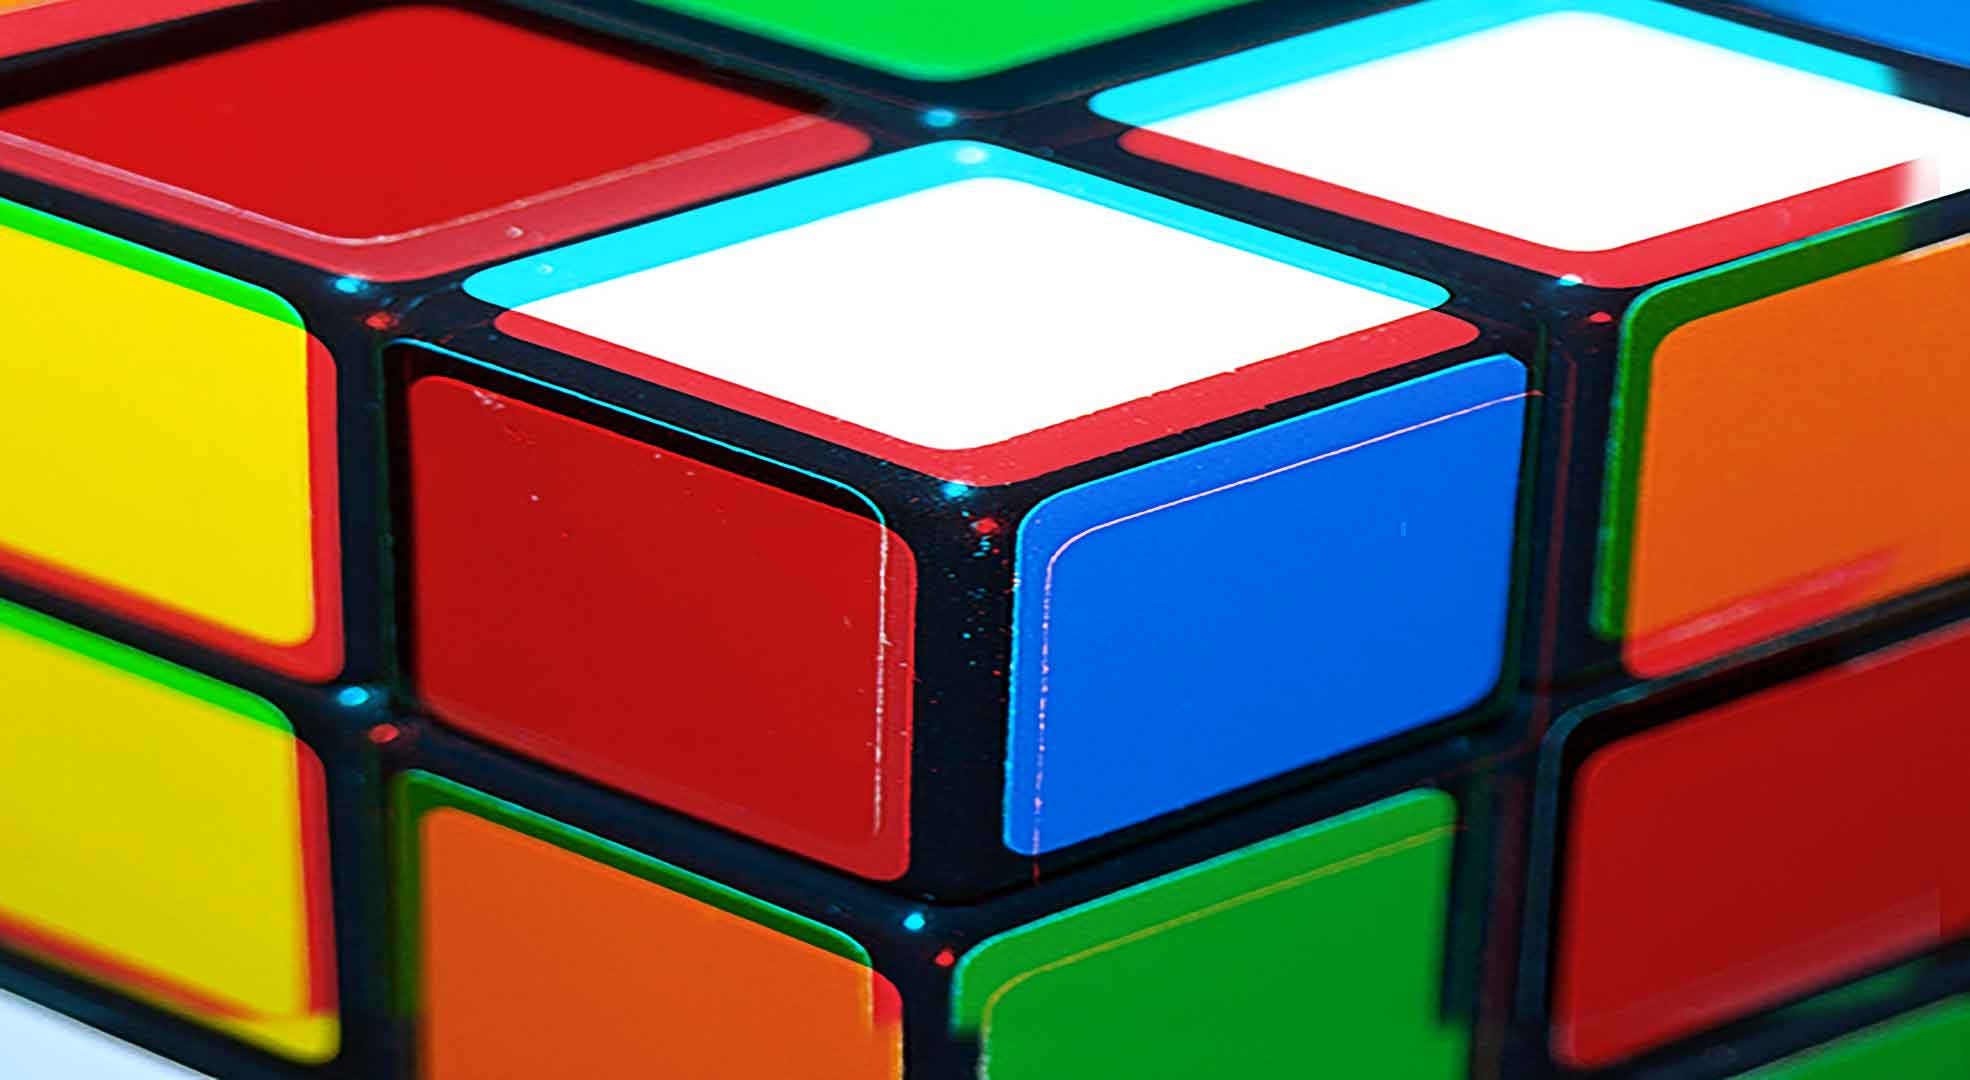
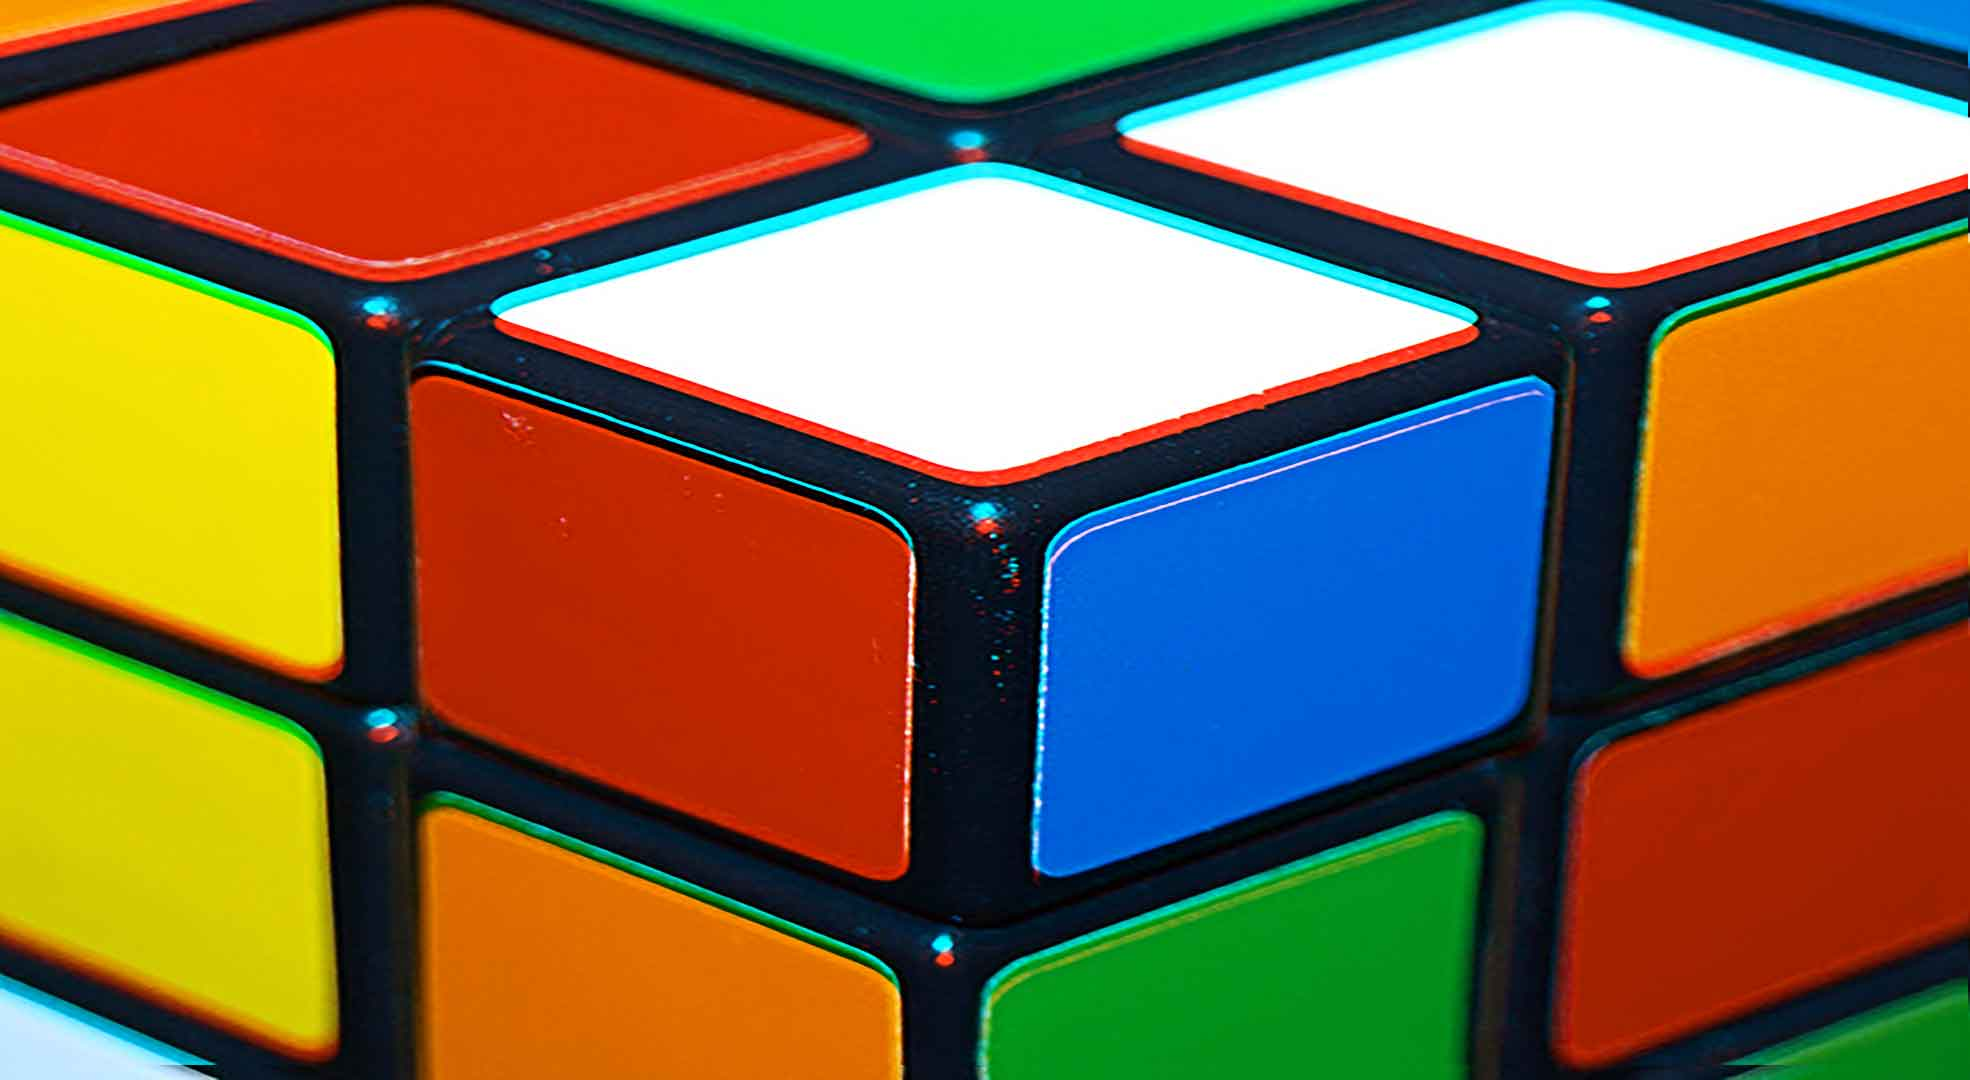
Add new images to file and complete home.html

diff --git a/pages/home.html b/pages/home.html
@@ -12,37 +12,64 @@
 
   <script type="application/json" data-pattern="header/header"></script>
 
-  <script type="application/json" data-pattern="banner/home-banner"></script>
+  <script type="application/json" data-pattern="banner/home-banner">{
+    ".home-text-image-banner[class]": "home-text-image-banner banner-img-3 embed embed-4by3"
+  }</script>
 
   <main>
-    <div class="grid island-2">
-      <div class="unit [ xs-1 l-1-2 xl-1-4 ] pad-t pad-b">
-        <script type="application/json" data-pattern="card/info-card"></script>
+    <div class="grid grid-stretch island-2">
+      <div class="unit [ xs-1 l-1-2 xl-1-4 ] unit-content-distribute pad-t pad-b">
+        <script type="application/json" data-pattern="card/info-card">{
+          "img[src]": "../images/multiple-rubik.jpg",
+          "h3": "New Releases",
+          "p": "A Whole new type of rubik introduced to our collection at Rubikas"
+        }</script>
       </div>
-      <div class="unit [ xs-1 l-1-2 xl-1-4 ] pad-t pad-b">
-        <script type="application/json" data-pattern="card/info-card"></script>
+      <div class="unit [ xs-1 l-1-2 xl-1-4 ] unit-content-distribute pad-t pad-b">
+        <script type="application/json" data-pattern="card/info-card">{
+          "img[src]": "../images/compete.jpg",
+          "h3" : "Get involved!"
+        }</script>
       </div>
-      <div class="unit [ xs-1 l-1-2 xl-1-4 ] pad-t pad-b">
-        <script type="application/json" data-pattern="card/info-card"></script>
+      <div class="unit [ xs-1 l-1-2 xl-1-4 ] unit-content-distribute pad-t pad-b">
+        <script type="application/json" data-pattern="card/info-card">{
+          "img[src]": "../images/wrench.jpg",
+          "h3": "Fixing the Cube",
+          "p": "Check out our list of manual of your rubik and get cracking. From our 2 by 2 to our hexagonal rubiks, we got the guide to help you through the steps necessary to master your cube."
+        }</script>
       </div>
-      <div class="unit [ xs-1 l-1-2 xl-1-4 ] pad-t pad-b">
-        <script type="application/json" data-pattern="card/info-card"></script>
+      <div class="unit [ xs-1 l-1-2 xl-1-4 ] unit-content-distribute pad-t pad-b">
+        <script type="application/json" data-pattern="card/info-card">{
+          "img[src]": "../images/chess.jpg",
+          "H3": "Collector's choice"
+        }</script>
       </div>
     </div>
   </main>
 
-  <script type="application/json" data-pattern="navigation/section"></script>
+  <script type="application/json" data-pattern="navigation/section">{
+    "img[src]" : "../images/rubik-two-by-two.png"
+  }</script>
 
   <section>
-    <div class="grid island-2">
-      <div class="unit [ xs-1 l-1 xl-1-3 ] ">
-        <script type="application/json" data-pattern="card/basic-card"></script>
+    <div class="grid island-2 grid-stretch">
+      <div class="unit [ xs-1 l-1 xl-1-3 ] unit-content-distribute">
+        <script type="application/json" data-pattern="card/basic-card">{
+          "img[src]": "../images/checkers-two.jpg",
+          "p": "Chess"
+        }</script>
       </div>
-      <div class="unit [ xs-1 l-1 xl-1-3 ] ">
-        <script type="application/json" data-pattern="card/basic-card"></script>
+      <div class="unit [ xs-1 l-1 xl-1-3 ] unit-content-distribute">
+        <script type="application/json" data-pattern="card/basic-card">{
+          "img[src]": "../images/jigsaw.jpg",
+          "p": "Puzzles"
+        }</script>
       </div>
-      <div class="unit [ xs-1 l-1 xl-1-3 ] ">
-        <script type="application/json" data-pattern="card/basic-card"></script>
+      <div class="unit [ xs-1 l-1 xl-1-3 ] unit-content-distribute">
+        <script type="application/json" data-pattern="card/basic-card">{
+          "img[src]": "../images/checkers.jpg",
+          "p": "Board Game"
+        }</script>
       </div>
     </div>
   </section>

diff --git a/patterns/banner/banner.css b/patterns/banner/banner.css
@@ -1,17 +1,24 @@
-.home-text-box-banner {
-  display: block;
-  background-color: var(--color-primary);
-}
-.home-text-image-banner {
-  background-image: url(../../images/rubik-mainbanner.jpg);
-  background-size: 150%;
-  background-position: center;
-  background-repeat: no-repeat;
-  height: 50vh;
+.banner-p {
+  display: none;
 }
 
-.home-text-box-banner {
+.home-text-image-banner {
+  background-size: cover;
+  background-position: top center;
+  background-repeat: no-repeat;
   bottom: 0;
+}
+
+.banner-img-1 {
+  background-image: url(../../images/rubik-mainbanner.jpg);
+}
+
+.banner-img-2 {
+  background-image: url(../../images/rubik-banner.jpg);
+}
+
+.banner-img-3 {
+  background-image: url(../../images/rubik-banner-filter.jpg);
 }
 
 .separator {
@@ -37,36 +44,42 @@ dl dd {
   line-height: 62px;
 }
 
-@media only screen and (min-width: 60em) {
-
   .banner {
-    position: relative;
-  }
+  position: relative;
+  text-shadow: 2px 0 0 var(--color-secondary-light), -2px 0 0 var(--color-secondary-light), 0 2px 0 var(--color-secondary-light), 0 -2px 0 var(--color-secondary-light);
 
-  .home-text-box-banner {
-    position: absolute;
-    left: 50%;
-    transform: translateX(-50%);
-    bottom: 20em;
-    background-color: transparent;
-  }
+}
 
-  .banner-h1 {
-    color: var(--color-accent);
-    text-shadow: 4px 0 0 var(--color-secondary-light), -4px 0 0 var(--color-secondary-light), 0 4px 0 var(--color-secondary-light), 0 -4px 0 var(--color-secondary-light);
-  }
+.home-text-box-banner {
+  position: absolute;
+  left: 50%;
+  top: 50%;
+  width: 100%;
+  transform: translate(-50%, -50%);
+  background-color: transparent;
+}
+
+.banner-h1 {
+  color: var(--color-accent);
+}
+
+.banner-p {
+  background-color: var(--color-secondary-light);
+  border-radius: 6px;
+  border: 6px solid var(--color-accent);
+  padding: 1em;
+}
+
+@media only screen and (min-width: 25em) {
 
   .banner-p {
-    background-color: var(--color-secondary-light);
-    border-radius: 6px;
-    border: 6px solid var(--color-accent);
-    padding: 1em;
+    display: block;
   }
 
-  .home-text-image-banner {
-    background-image: url(../../images/rubik-mainbanner.jpg);
-    background-size: 130%;
-    height: 100vh;
-    background-position: center;
+}
+
+@media only screen and (min-width: 36em) {
+  .banner-h1 {
+    text-shadow: 4px 0 0 var(--color-secondary-light), -4px 0 0 var(--color-secondary-light), 0 4px 0 var(--color-secondary-light), 0 -4px 0 var(--color-secondary-light);
   }
 }

diff --git a/index.html b/index.html
@@ -860,7 +860,7 @@
               </button>
               <code><pre id="banner-home-banner-code-sample-copy-chunk">&lt;main id="main" role="main" tabindex="0"&gt;
   &lt;div class="banner">
-    &lt;div class="home-text-image-banner" aria-details="banner-image-of-one-of-our-rubik&apos;s-cube">
+    &lt;div class="home-text-image-banner banner-img-1 embed embed-4by3" aria-details="banner-image-of-one-of-our-rubik&apos;s-cube">
     &lt;/div>
     &lt;div class="gutter-2 home-text-box-banner island">
       &lt;div class="wrapper">
@@ -1044,7 +1044,7 @@
                   <svg><use xlink:href="#icon-copy"></use></svg>
                 </i>
               </button>
-              <code><pre id="card-basic-card-code-sample-copy-chunk">&lt;div class="grid cart-item main-card gutter-1-2 pad-t pad-b"&gt;
+              <code><pre id="card-basic-card-code-sample-copy-chunk">&lt;div class="grid cart-item main-card gutter-1-2 pad-t pad-b content-fill"&gt;
   &lt;div class="unit [ xs-1 ] push">
     &lt;img class="img-flex" src="../../images/variation-rubik.jpg" alt="">
   &lt;/div>
@@ -1334,7 +1334,7 @@
                   <svg><use xlink:href="#icon-copy"></use></svg>
                 </i>
               </button>
-              <code><pre id="card-info-card-code-sample-copy-chunk">&lt;div class="basic-card pad-b"&gt;
+              <code><pre id="card-info-card-code-sample-copy-chunk">&lt;div class="basic-card pad-b content-fill"&gt;
   &lt;a class="basic-card-link link-box" href="#">
     &lt;div class="grid">
       &lt;div class="unit [ xs-1 ] gutter-1-2 pad-t-1-2 pad-b-1-2">
@@ -1342,7 +1342,7 @@
       &lt;/div>
       &lt;div class="unit [ xs-1 ] ">
         &lt;div class="text-info pad-t gutter">
-          &lt;p class="zetta push-0 info-card-title bold">New Release&lt;/p>
+          &lt;h3 class="zetta push-0 info-card-title bold">New Release&lt;/h3>
           &lt;p class="push-1-2">Lorem ipsum dolor sit amet, consectetur adipisicing elit, sed do eiusmod tempor incididunt ut labore et dolore magna&lt;/p>
         &lt;/div>
       &lt;/div>

diff --git a/patterns/card/info-card.html b/patterns/card/info-card.html
@@ -15,7 +15,7 @@
 </head>
 <body>
 
-  <div class="basic-card pad-b">
+  <div class="basic-card pad-b content-fill">
     <a class="basic-card-link link-box" href="#">
       <div class="grid">
         <div class="unit [ xs-1 ] gutter-1-2 pad-t-1-2 pad-b-1-2">
@@ -23,7 +23,7 @@
         </div>
         <div class="unit [ xs-1 ] ">
           <div class="text-info pad-t gutter">
-            <p class="zetta push-0 info-card-title bold">New Release</p>
+            <h3 class="zetta push-0 info-card-title bold">New Release</h3>
             <p class="push-1-2">Lorem ipsum dolor sit amet, consectetur adipisicing elit, sed do eiusmod tempor incididunt ut labore et dolore magna</p>
           </div>
         </div>

diff --git a/common/patternbot.js b/common/patternbot.js
@@ -388,9 +388,9 @@ const patternBotIncludes = function (manifest) {
 /** 
  * Patternbot library manifest
  * /Users/kelzinha_alves/Dropbox/ALGONQUIN/4th Semester/2 Web Dev IV/Week 3/ecommerce-pattern-library
- * @version 1522178224345
+ * @version 1522345480786
  */
-const patternManifest_1522178224345 = {
+const patternManifest_1522345480786 = {
   "commonInfo": {
     "modulifier": [
       "responsive",
@@ -1081,5 +1081,5 @@ const patternManifest_1522178224345 = {
   }
 };
 
-patternBotIncludes(patternManifest_1522178224345);
+patternBotIncludes(patternManifest_1522345480786);
 }());

diff --git a/patterns/banner/home-banner.html b/patterns/banner/home-banner.html
@@ -16,7 +16,7 @@
 
   <main id="main" role="main" tabindex="0">
     <div class="banner">
-      <div class="home-text-image-banner" aria-details="banner-image-of-one-of-our-rubik's-cube">
+      <div class="home-text-image-banner banner-img-1 embed embed-4by3" aria-details="banner-image-of-one-of-our-rubik's-cube">
       </div>
       <div class="gutter-2 home-text-box-banner island">
         <div class="wrapper">

diff --git a/patterns/card/basic-card.html b/patterns/card/basic-card.html
@@ -15,7 +15,7 @@
 </head>
 <body>
 
-  <div class="grid cart-item main-card gutter-1-2 pad-t pad-b">
+  <div class="grid cart-item main-card gutter-1-2 pad-t pad-b content-fill">
     <div class="unit [ xs-1 ] push">
       <img class="img-flex" src="../../images/variation-rubik.jpg" alt="">
     </div>
